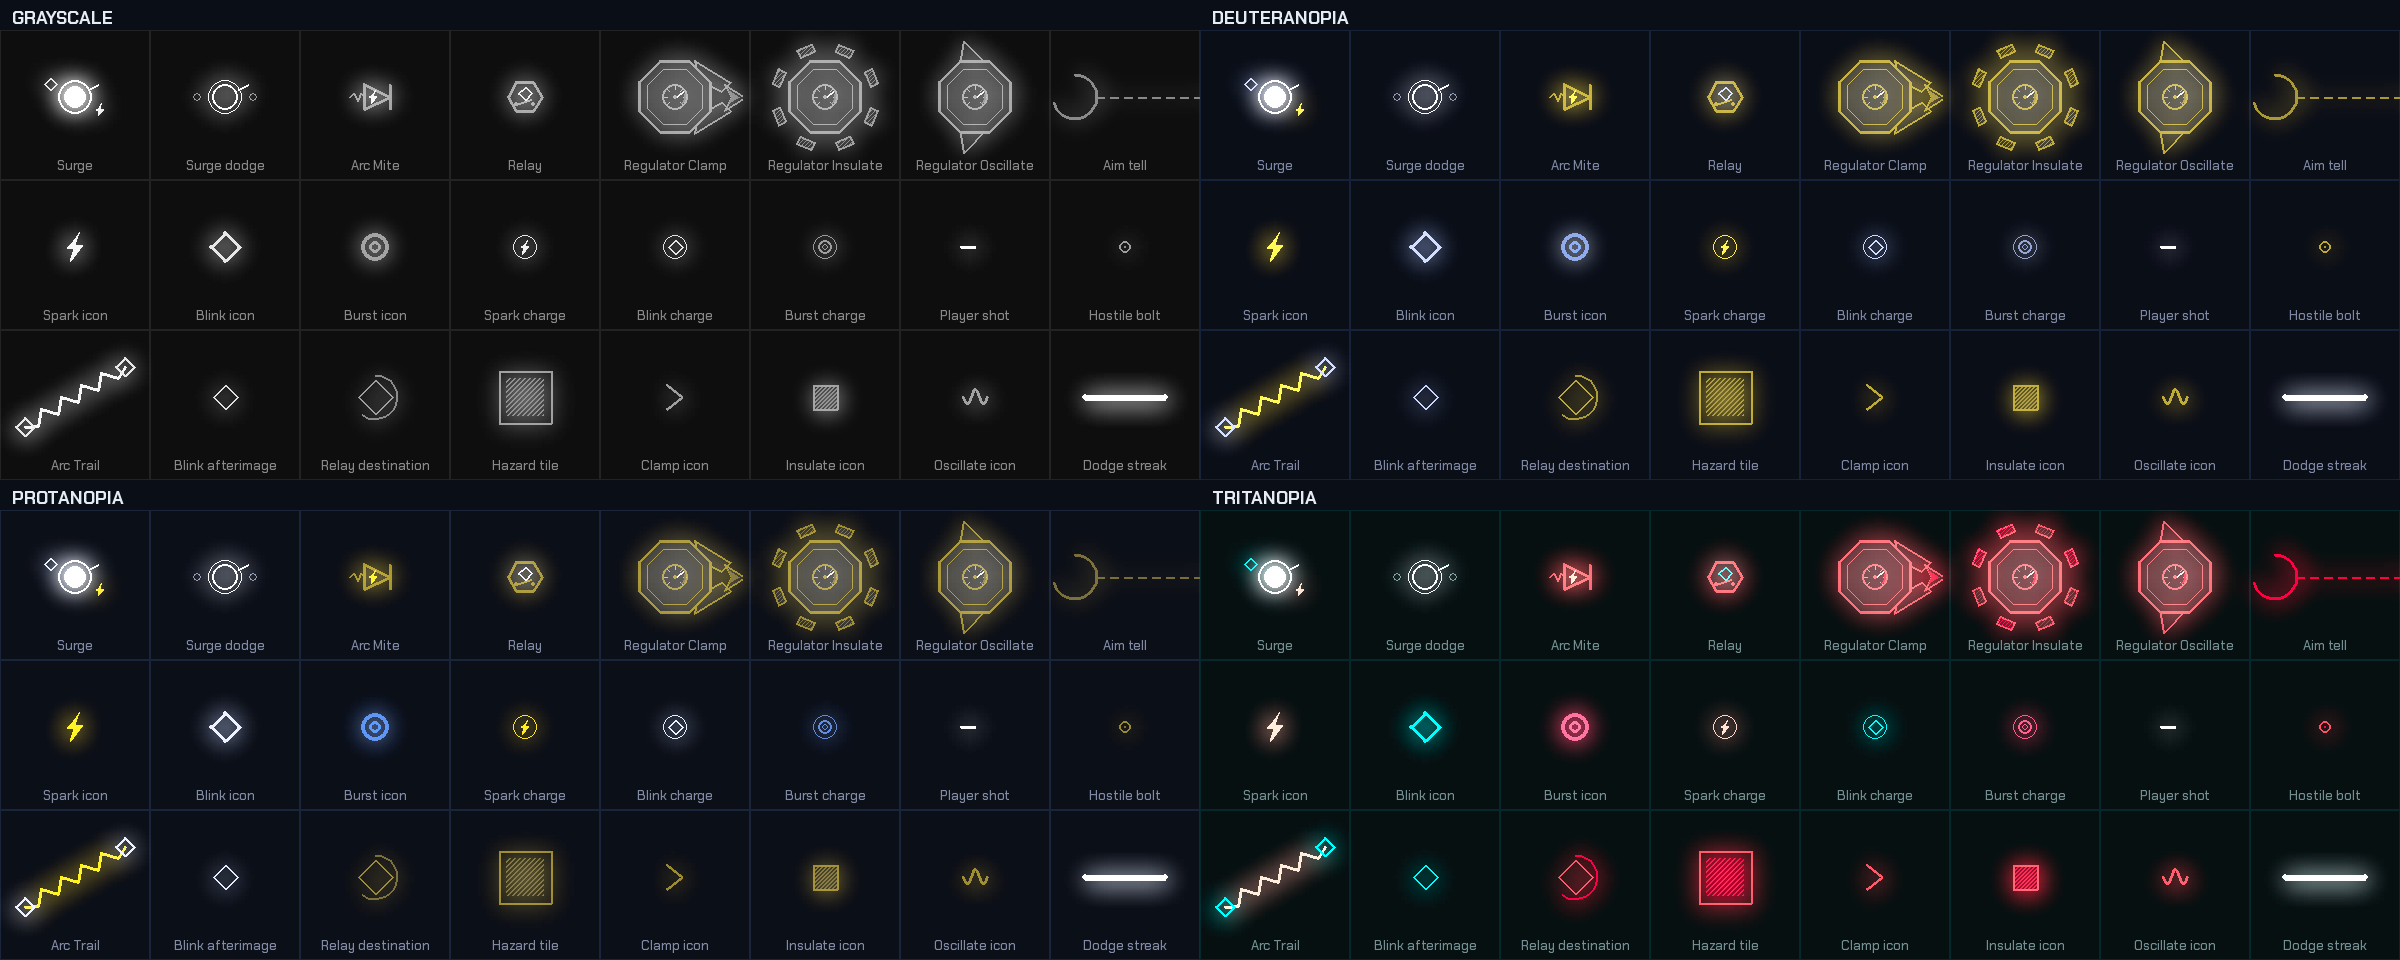
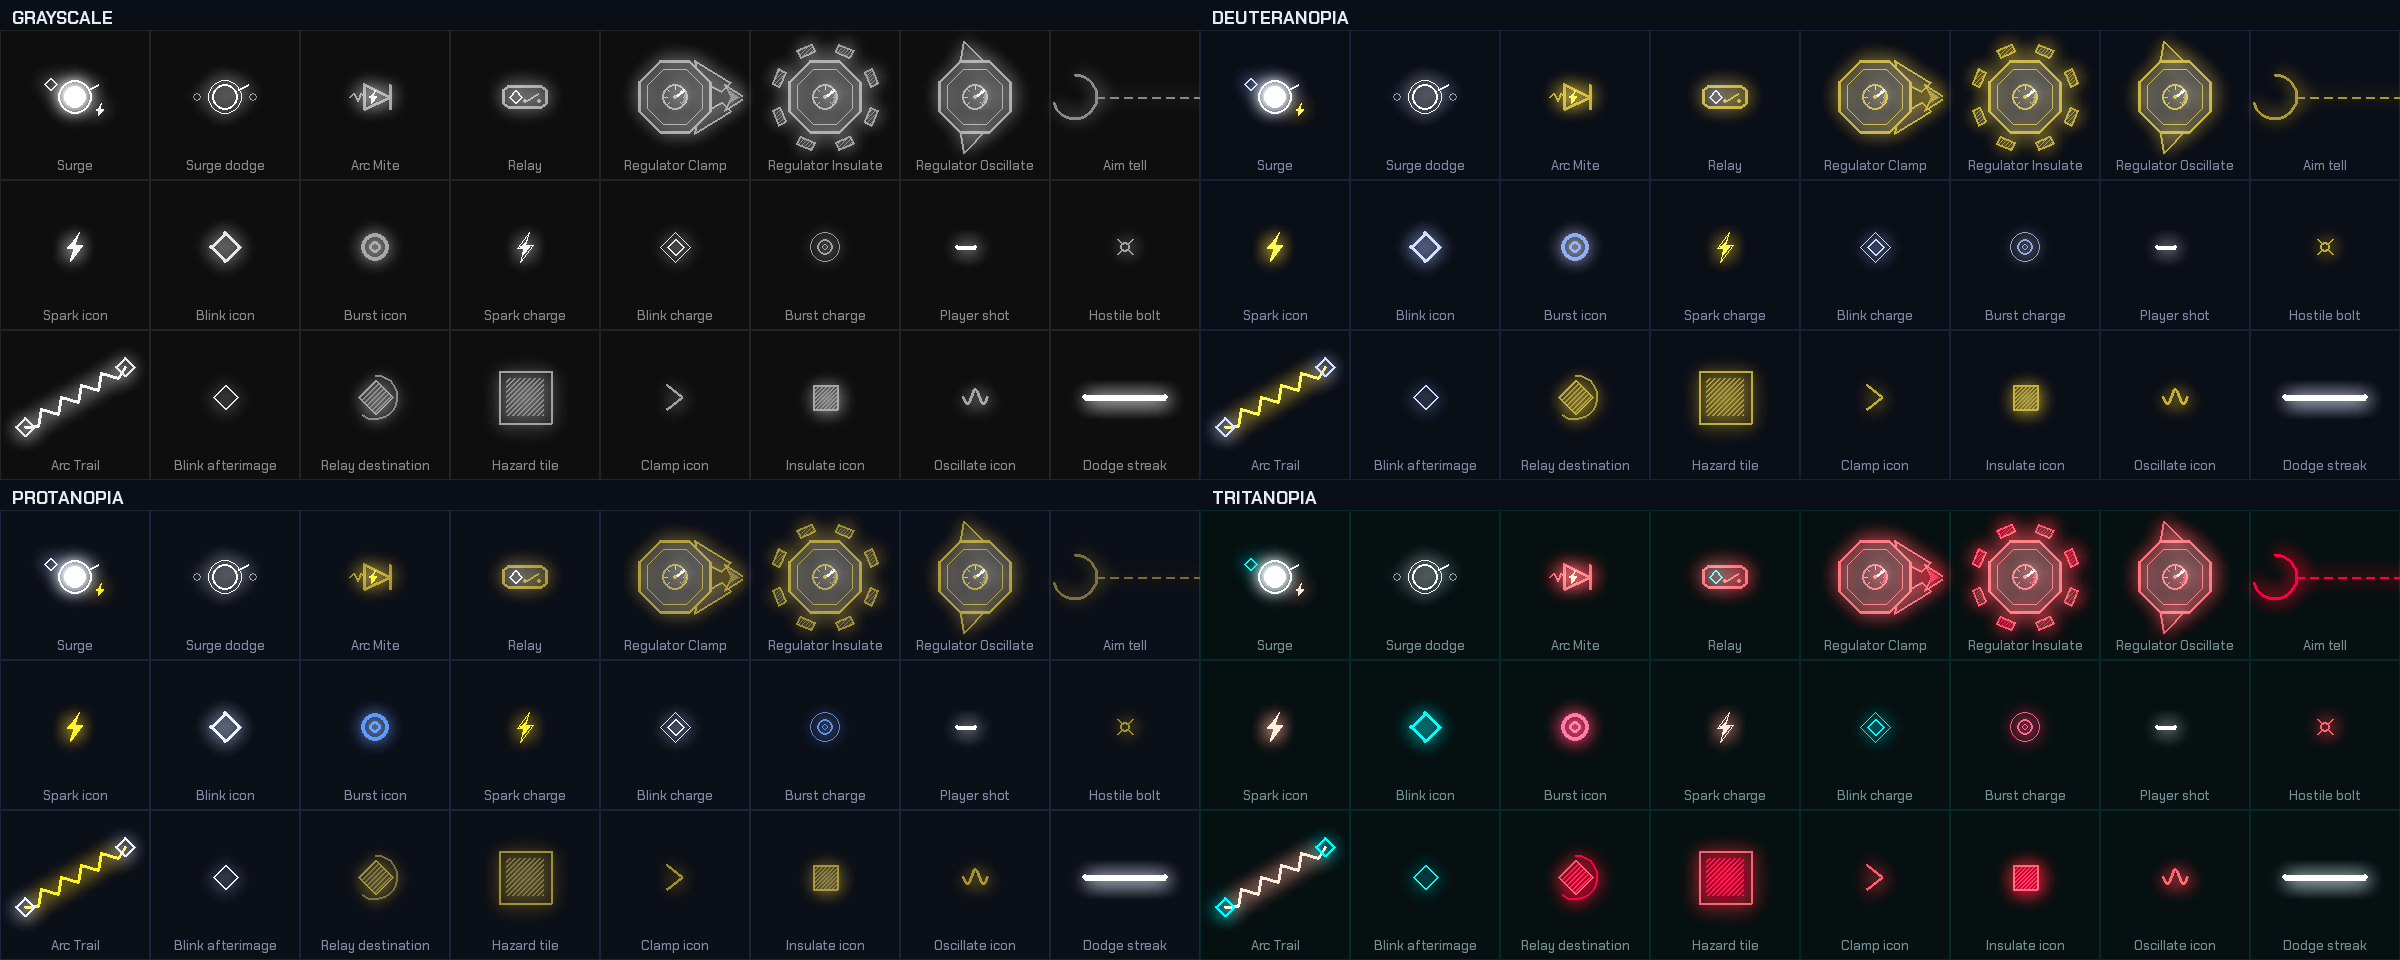
Style frame review fixes: faster bloom, clearer shapes, stronger shape tests
Bloom reuses its buffers and uses two box-blur passes (6.5 ms to 3.0 ms per frame). Hostile bolts are spiked so they no longer read as floor vias or the Burst symbol. The Relay destination is hatched so it differs from the Blink afterimage by shape. Charges echo their own symbol. The Relay housing is a wide schematic box so it no longer matches the Surge's silhouette. Shape tests now compare normalized outlines, include a self-test that same-shape-different-size is caught, and cover the confusable pairs. The contact sheet writes a complete 2x sheet.

diff --git a/tests/test_art.py b/tests/test_art.py
@@ -9,6 +9,7 @@ import pygame
 import pytest
 
 from overload.art import palette, scene, sprites
+from overload.art import primitives as p
 from overload.art.fonts import font
 from overload.paths import ROOT
 
@@ -24,17 +25,66 @@ def headless_pygame():
     pygame.quit()
 
 
-def silhouette(sprite: sprites.Sprite) -> pygame.Mask:
+def silhouette(draw) -> pygame.Mask:
+    """Mask of whatever `draw(surface, center)` paints, or of a Sprite drawn at the center."""
     canvas = pygame.Surface((CANVAS, CANVAS), pygame.SRCALPHA)
-    sprite.draw(canvas, (CANVAS / 2, CANVAS / 2))
+    if isinstance(draw, sprites.Sprite):
+        draw.draw(canvas, (CANVAS / 2, CANVAS / 2))
+    else:
+        draw(canvas, (CANVAS / 2, CANVAS / 2))
     return pygame.mask.from_surface(canvas, 127)
 
 
-def overlap_ratio(a: pygame.Mask, b: pygame.Mask) -> float:
-    """Intersection over union of two silhouettes. 1.0 means identical shapes."""
-    both = a.overlap_area(b, (0, 0))
-    union = a.count() + b.count() - both
-    return both / union if union else 1.0
+def outline(mask: pygame.Mask) -> pygame.Mask:
+    """Boundary pixels only. Filled shapes overlap a lot even when they look different (a disk
+    covers most of a square), so shapes are compared by their outlines."""
+    outside = mask.copy()
+    outside.invert()
+    near_outside = outside.convolve(pygame.mask.Mask((3, 3), fill=True))
+    return mask.overlap_mask(near_outside, (-1, -1))
+
+
+def normalized(mask: pygame.Mask, size: int = 48, grow: int = 5) -> pygame.Mask:
+    """Crop to the shape, scale to a fixed square and thicken slightly.
+
+    Size and stroke width stop mattering, so two drawings of the same shape at different
+    sizes compare as similar. That is the failure mode the shape-before-color rule is about.
+    """
+    rects = mask.get_bounding_rects()
+    box = rects[0].unionall(rects[1:])
+    side = max(box.w, box.h)
+    square = pygame.Surface((side, side), pygame.SRCALPHA)
+    crop = mask.to_surface(
+        setcolor=palette.rgba("fx.flash", 255), unsetcolor=palette.rgba("bg.void", 0)
+    ).subsurface(box)
+    square.blit(crop, ((side - box.w) // 2, (side - box.h) // 2))
+    small = pygame.mask.from_surface(pygame.transform.smoothscale(square, (size, size)), 60)
+    return small.convolve(pygame.mask.Mask((grow, grow), fill=True))
+
+
+def similarity(a, b) -> float:
+    """Intersection over union of normalized silhouettes. 1.0 means the same shape."""
+    ma, mb = normalized(outline(silhouette(a))), normalized(outline(silhouette(b)))
+    both = ma.overlap_area(mb, (0, 0))
+    return both / (ma.count() + mb.count() - both)
+
+
+SIMILAR = 0.62
+
+
+def test_metric_flags_same_shape_at_different_sizes() -> None:
+    def ring(radius):
+        return lambda surface, c: p.ring(surface, "ui.text", c, radius, 2)
+
+    def diamond(radius):
+        return lambda surface, c: p.stroke(surface, "ui.text", p.diamond(c, radius), 2, True)
+
+    def disk(radius):
+        return lambda surface, c: p.dot(surface, "ui.text", c, radius)
+
+    assert similarity(ring(6), ring(14)) >= SIMILAR
+    assert similarity(diamond(8), diamond(20)) >= SIMILAR
+    assert similarity(disk(10), disk(25)) >= SIMILAR
 
 
 def test_every_sprite_has_visible_pixels() -> None:
@@ -42,22 +92,46 @@ def test_every_sprite_has_visible_pixels() -> None:
         assert silhouette(sprite).count() > 20, name
 
 
-@pytest.mark.parametrize(
-    "group",
-    [
-        [sprites.power_icon(power, 14) for power in sprites.POWER_TOKENS],
-        [sprites.protocol_pose(protocol) for protocol in sprites.PROTOCOLS],
-        [sprites.protocol_icon(protocol, 12) for protocol in sprites.PROTOCOLS],
-        [sprites.arc_mite(), sprites.relay(), sprites.surge()],
-    ],
-    ids=["power icons", "protocol poses", "protocol icons", "characters"],
-)
-def test_silhouettes_are_distinct(group: list[sprites.Sprite]) -> None:
-    for a, b in itertools.combinations(group, 2):
-        assert overlap_ratio(silhouette(a), silhouette(b)) < 0.6
+def _confusable_pairs():
+    s = sprites
+    group = {
+        "power icons": [s.power_icon(power, 14) for power in s.POWER_TOKENS],
+        "charges": [s.charge(power) for power in s.POWER_TOKENS],
+        "protocol poses": [s.protocol_pose(protocol) for protocol in s.PROTOCOLS],
+        "protocol icons": [s.protocol_icon(protocol, 12) for protocol in s.PROTOCOLS],
+        "characters": [s.arc_mite(), s.relay(), s.surge()],
+    }
+    for name, items in group.items():
+        for a, b in itertools.combinations(items, 2):
+            yield pytest.param(a, b, id=name)
+
+    def bolt(surface, c):
+        scene.draw_hostile_bolt(surface, c)
+
+    def shot(surface, c):
+        scene.draw_player_shot(surface, c, 0.0)
+
+    def via(surface, c):
+        p.ring(surface, "bg.trace", c, 4, 2)
+
+    def afterimage(surface, c):
+        scene.draw_blink_afterimage(surface, c, 0.6)
+
+    def destination(surface, c):
+        scene.draw_relay_destination(surface, c, 0.6)
+
+    yield pytest.param(bolt, shot, id="hostile bolt vs player shot")
+    yield pytest.param(bolt, via, id="hostile bolt vs floor via")
+    yield pytest.param(bolt, s.charge("burst"), id="hostile bolt vs Burst charge")
+    yield pytest.param(afterimage, destination, id="Blink afterimage vs Relay destination")
 
 
-def test_rotation_keeps_the_shape() -> None:
+@pytest.mark.parametrize(("a", "b"), list(_confusable_pairs()))
+def test_confusable_things_have_distinct_shapes(a, b) -> None:
+    assert similarity(a, b) < SIMILAR
+
+
+def test_rotation_cache() -> None:
     mite = sprites.arc_mite()
     rotated = mite.rotated(1.0)
     assert rotated is not mite.surface

diff --git a/src/overload/art/scene.py b/src/overload/art/scene.py
@@ -121,6 +121,7 @@ def _insulator_block(surface: pygame.Surface, rect: Rect) -> None:
 
 
 def _blur(source: pygame.Surface, factor: int, radius: int) -> pygame.Surface:
+    """One-off high quality blur, used for static layers rendered once."""
     w, h = source.get_size()
     small = pygame.transform.smoothscale(source, (max(1, w // factor), max(1, h // factor)))
     small = pygame.transform.gaussian_blur(small, radius)
@@ -129,23 +130,35 @@ def _blur(source: pygame.Surface, factor: int, radius: int) -> pygame.Surface:
 
 @dataclass
 class Bloom:
-    """One glow for everything: downscale the entity layer, blur it, add it back."""
+    """One glow for everything: downscale the entity layer, blur it, add it back.
+
+    Runs every frame, so all buffers are allocated once and the blur is two box-blur passes
+    (a close, much cheaper approximation of a Gaussian). About 3 ms at 1280 x 720.
+    """
 
     size: tuple[int, int]
     factor: int = 4
-    radius: int = 3
+    radius: int = 2
     passes: int = 2
 
     def __post_init__(self) -> None:
+        w, h = self.size
+        small = (max(1, w // self.factor), max(1, h // self.factor))
         self._source = pygame.Surface(self.size)
+        self._small = pygame.Surface(small)
+        self._scratch = pygame.Surface(small)
+        self._glow = pygame.Surface(self.size)
 
     def apply(self, target: pygame.Surface, layer: pygame.Surface) -> None:
         self._source.fill(rgb("bg.void"))
         self._source.blit(layer, (0, 0))
         self._source.fill(rgb("bg.void"), special_flags=pygame.BLEND_RGB_SUB)
-        glow = _blur(self._source, self.factor, self.radius)
+        pygame.transform.smoothscale(self._source, self._small.get_size(), self._small)
+        pygame.transform.box_blur(self._small, self.radius, True, self._scratch)
+        pygame.transform.box_blur(self._scratch, self.radius, True, self._small)
+        pygame.transform.smoothscale(self._small, self.size, self._glow)
         for _ in range(self.passes):
-            target.blit(glow, (0, 0), special_flags=pygame.BLEND_RGB_ADD)
+            target.blit(self._glow, (0, 0), special_flags=pygame.BLEND_RGB_ADD)
 
 
 def clear(layer: pygame.Surface) -> None:
@@ -190,14 +203,17 @@ def draw_dodge_streak(layer: pygame.Surface, start: p.Point, end: p.Point) -> No
 
 
 def draw_player_shot(layer: pygame.Surface, pos: p.Point, angle: float) -> None:
-    tail = p.polar(pos, -14, angle)
-    p.stroke(layer, "player.core", [tail, pos], 3)
+    tail = p.polar(pos, -18, angle)
+    p.stroke(layer, "player.core", [tail, pos], 4)
 
 
 def draw_hostile_bolt(layer: pygame.Surface, pos: p.Point) -> None:
-    """Hostile projectiles are always hollow, so they never read as the player's."""
-    p.ring(layer, "hostile.line", pos, 6, 2)
-    p.dot(layer, "hostile.danger", pos, 1.5)
+    """Hostile projectiles are hollow and spiked: never filled like the player's shots, never
+    a plain ring like floor vias or the Burst symbol."""
+    p.ring(layer, "hostile.line", pos, 5, 2)
+    for i in range(4):
+        angle = math.pi / 4 + i * math.pi / 2
+        p.stroke(layer, "hostile.line", [p.polar(pos, 5, angle), p.polar(pos, 10, angle)], 2)
 
 
 def draw_aim_tell(
@@ -223,7 +239,9 @@ def draw_relay(layer: pygame.Surface, pos: p.Point) -> None:
 def draw_relay_destination(layer: pygame.Surface, pos: p.Point, progress: float) -> None:
     """Where a Relay is about to blink. Visible for the whole 0.5 s tell."""
     r = sprites.RELAY_RADIUS
-    p.stroke(layer, "hostile.line", p.diamond(pos, r), 2, closed=True)
+    outline = p.diamond(pos, r)
+    p.hatch(layer, "hostile.danger", outline, spacing=5, width=2)
+    p.stroke(layer, "hostile.line", outline, 2, closed=True)
     p.arc(layer, "hostile.danger", pos, r + 5, -math.pi / 2, math.tau * max(0.0, progress), 2)
 
 
@@ -244,7 +262,7 @@ def draw_regulator(
         r = sprites.REGULATOR_RADIUS
         tip = p.chevron(p.polar(pos, r * 1.5, facing), 13 * min(1.0, tell), facing)
         p.fill(layer, "hostile.danger", tip)
-    p.stroke(layer, "ui.text", [pos, p.polar(pos, sprites.GAUGE_RADIUS - 3, needle)], 2)
+    p.stroke(layer, "fx.flash", [pos, p.polar(pos, sprites.GAUGE_RADIUS - 2, needle)], 3)
     p.dot(layer, "hostile.line", pos, 2.5)
 
 
@@ -328,7 +346,7 @@ def draw_hud(screen: pygame.Surface, hud: HudState) -> None:
 
     # Power sockets with gauge-style cooldowns.
     sx = 24 + total_w + 52
-    for i, (power, cooldown) in enumerate(hud.sockets):
+    for i, (power, cooldown) in enumerate(hud.sockets[:2]):
         center = (sx + i * 58, base_y + 12)
         p.ring(screen, "ui.dim", center, 20, 2)
         if power:

diff --git a/src/overload/art/sprites.py b/src/overload/art/sprites.py
@@ -82,10 +82,18 @@ def power_icon(power: str, r: int) -> Sprite:
 
 @cache
 def charge(power: str) -> Sprite:
-    """A dropped charge: the power symbol inside a thin ring of the same color."""
-    surface, c = _canvas(16)
-    p.ring(surface, POWER_TOKENS[power], c, 12, 1)
-    draw_power_symbol(surface, power, c, 7)
+    """A dropped charge: the power symbol inside a thin echo of its own shape."""
+    token = POWER_TOKENS[power]
+    surface, c = _canvas(20)
+    if power == "spark":
+        p.stroke(surface, token, p.bolt(c, 15 / 0.6), 1, closed=True)
+    elif power == "blink":
+        p.stroke(surface, token, p.diamond(c, 15), 1, closed=True)
+    elif power == "burst":
+        p.ring(surface, token, c, 15, 1)
+    else:
+        raise KeyError(power)
+    draw_power_symbol(surface, power, c, 8)
     return Sprite(surface)
 
 
@@ -120,16 +128,28 @@ def arc_mite() -> Sprite:
 
 @cache
 def relay() -> Sprite:
-    """Blink carrier: a relay housing with an open switch and a visible Blink core."""
+    """Blink carrier: a wide relay box (as drawn in schematics) with its Blink core on the
+    left and an open switch on the right."""
     r = RELAY_RADIUS
-    surface, c = _canvas(r + 6)
+    surface, c = _canvas(round(r * 1.3) + 4)
     cx, cy = c
-    p.shape(surface, p.regular_polygon(c, r, 6), "hostile.body", "hostile.line")
-    left, right = (cx - r * 0.5, cy + r * 0.45), (cx + r * 0.5, cy + r * 0.45)
-    p.stroke(surface, "hostile.line", [left, (cx + r * 0.38, cy + r * 0.12)], 2)
+    hw, hh, cut = r * 1.25, r * 0.62, r * 0.26
+    housing = [
+        (cx - hw + cut, cy - hh),
+        (cx + hw - cut, cy - hh),
+        (cx + hw, cy - hh + cut),
+        (cx + hw, cy + hh - cut),
+        (cx + hw - cut, cy + hh),
+        (cx - hw + cut, cy + hh),
+        (cx - hw, cy + hh - cut),
+        (cx - hw, cy - hh + cut),
+    ]
+    p.shape(surface, housing, "hostile.body", "hostile.line")
+    draw_power_symbol(surface, "blink", (cx - r * 0.55, cy), r * 0.36)
+    left, right = (cx + r * 0.05, cy + r * 0.28), (cx + r * 0.85, cy + r * 0.28)
+    p.stroke(surface, "hostile.line", [left, (cx + r * 0.78, cy - r * 0.18)], 2)
     p.dot(surface, "hostile.line", left, 2.5)
     p.dot(surface, "hostile.line", right, 2.5)
-    draw_power_symbol(surface, "blink", (cx, cy - r * 0.2), r * 0.38)
     return Sprite(surface)
 
 

diff --git a/tools/art/contact_sheet.py b/tools/art/contact_sheet.py
@@ -1,10 +1,14 @@
 """Render the contact sheet: every sprite and effect, plus color-vision simulations.
 
-Usage: uv run --group tools python tools/art/contact_sheet.py [output_dir]
+Usage (Python 3.12, numpy comes from the tools group):
+    uv run --group tools python tools/art/contact_sheet.py [output_dir]
 
-Writes contact_sheet.png (each item at 1x and 2x on the real floor color) and
-contact_sheet_cvd.png (grayscale, deuteranopia, protanopia and tritanopia). QA checks that
-every power, enemy and hostile projectile stays distinguishable in all four.
+Writes three files:
+- contact_sheet.png: every item at 1x on the real floor color
+- contact_sheet_2x.png: the same sheet at 2x, every item included
+- contact_sheet_cvd.png: grayscale, deuteranopia, protanopia and tritanopia versions
+
+QA checks that every power, enemy and hostile projectile stays distinguishable in all four.
 Simulation uses the Machado, Oliveira and Fernandes (2009) matrices at full severity,
 applied in linear RGB.
 """
@@ -173,18 +177,12 @@ def main(argv: list[str]) -> int:
     try:
         out_dir.mkdir(parents=True, exist_ok=True)
         base = render_sheet(1)
-        combined = pygame.Surface((base.get_width(), base.get_height() * 3))
-        combined.blit(base, (0, 0))
-        double = render_sheet(2)
-        combined.blit(
-            double.subsurface((0, 0, base.get_width(), base.get_height() * 2)),
-            (0, base.get_height()),
-        )
-        pygame.image.save(combined, str(out_dir / "contact_sheet.png"))
+        pygame.image.save(base, str(out_dir / "contact_sheet.png"))
+        pygame.image.save(render_sheet(2), str(out_dir / "contact_sheet_2x.png"))
         pygame.image.save(render_cvd(base), str(out_dir / "contact_sheet_cvd.png"))
     finally:
         pygame.quit()
-    print(f"wrote {out_dir / 'contact_sheet.png'} and {out_dir / 'contact_sheet_cvd.png'}")
+    print(f"wrote contact_sheet.png, contact_sheet_2x.png and contact_sheet_cvd.png to {out_dir}")
     return 0
 
 
